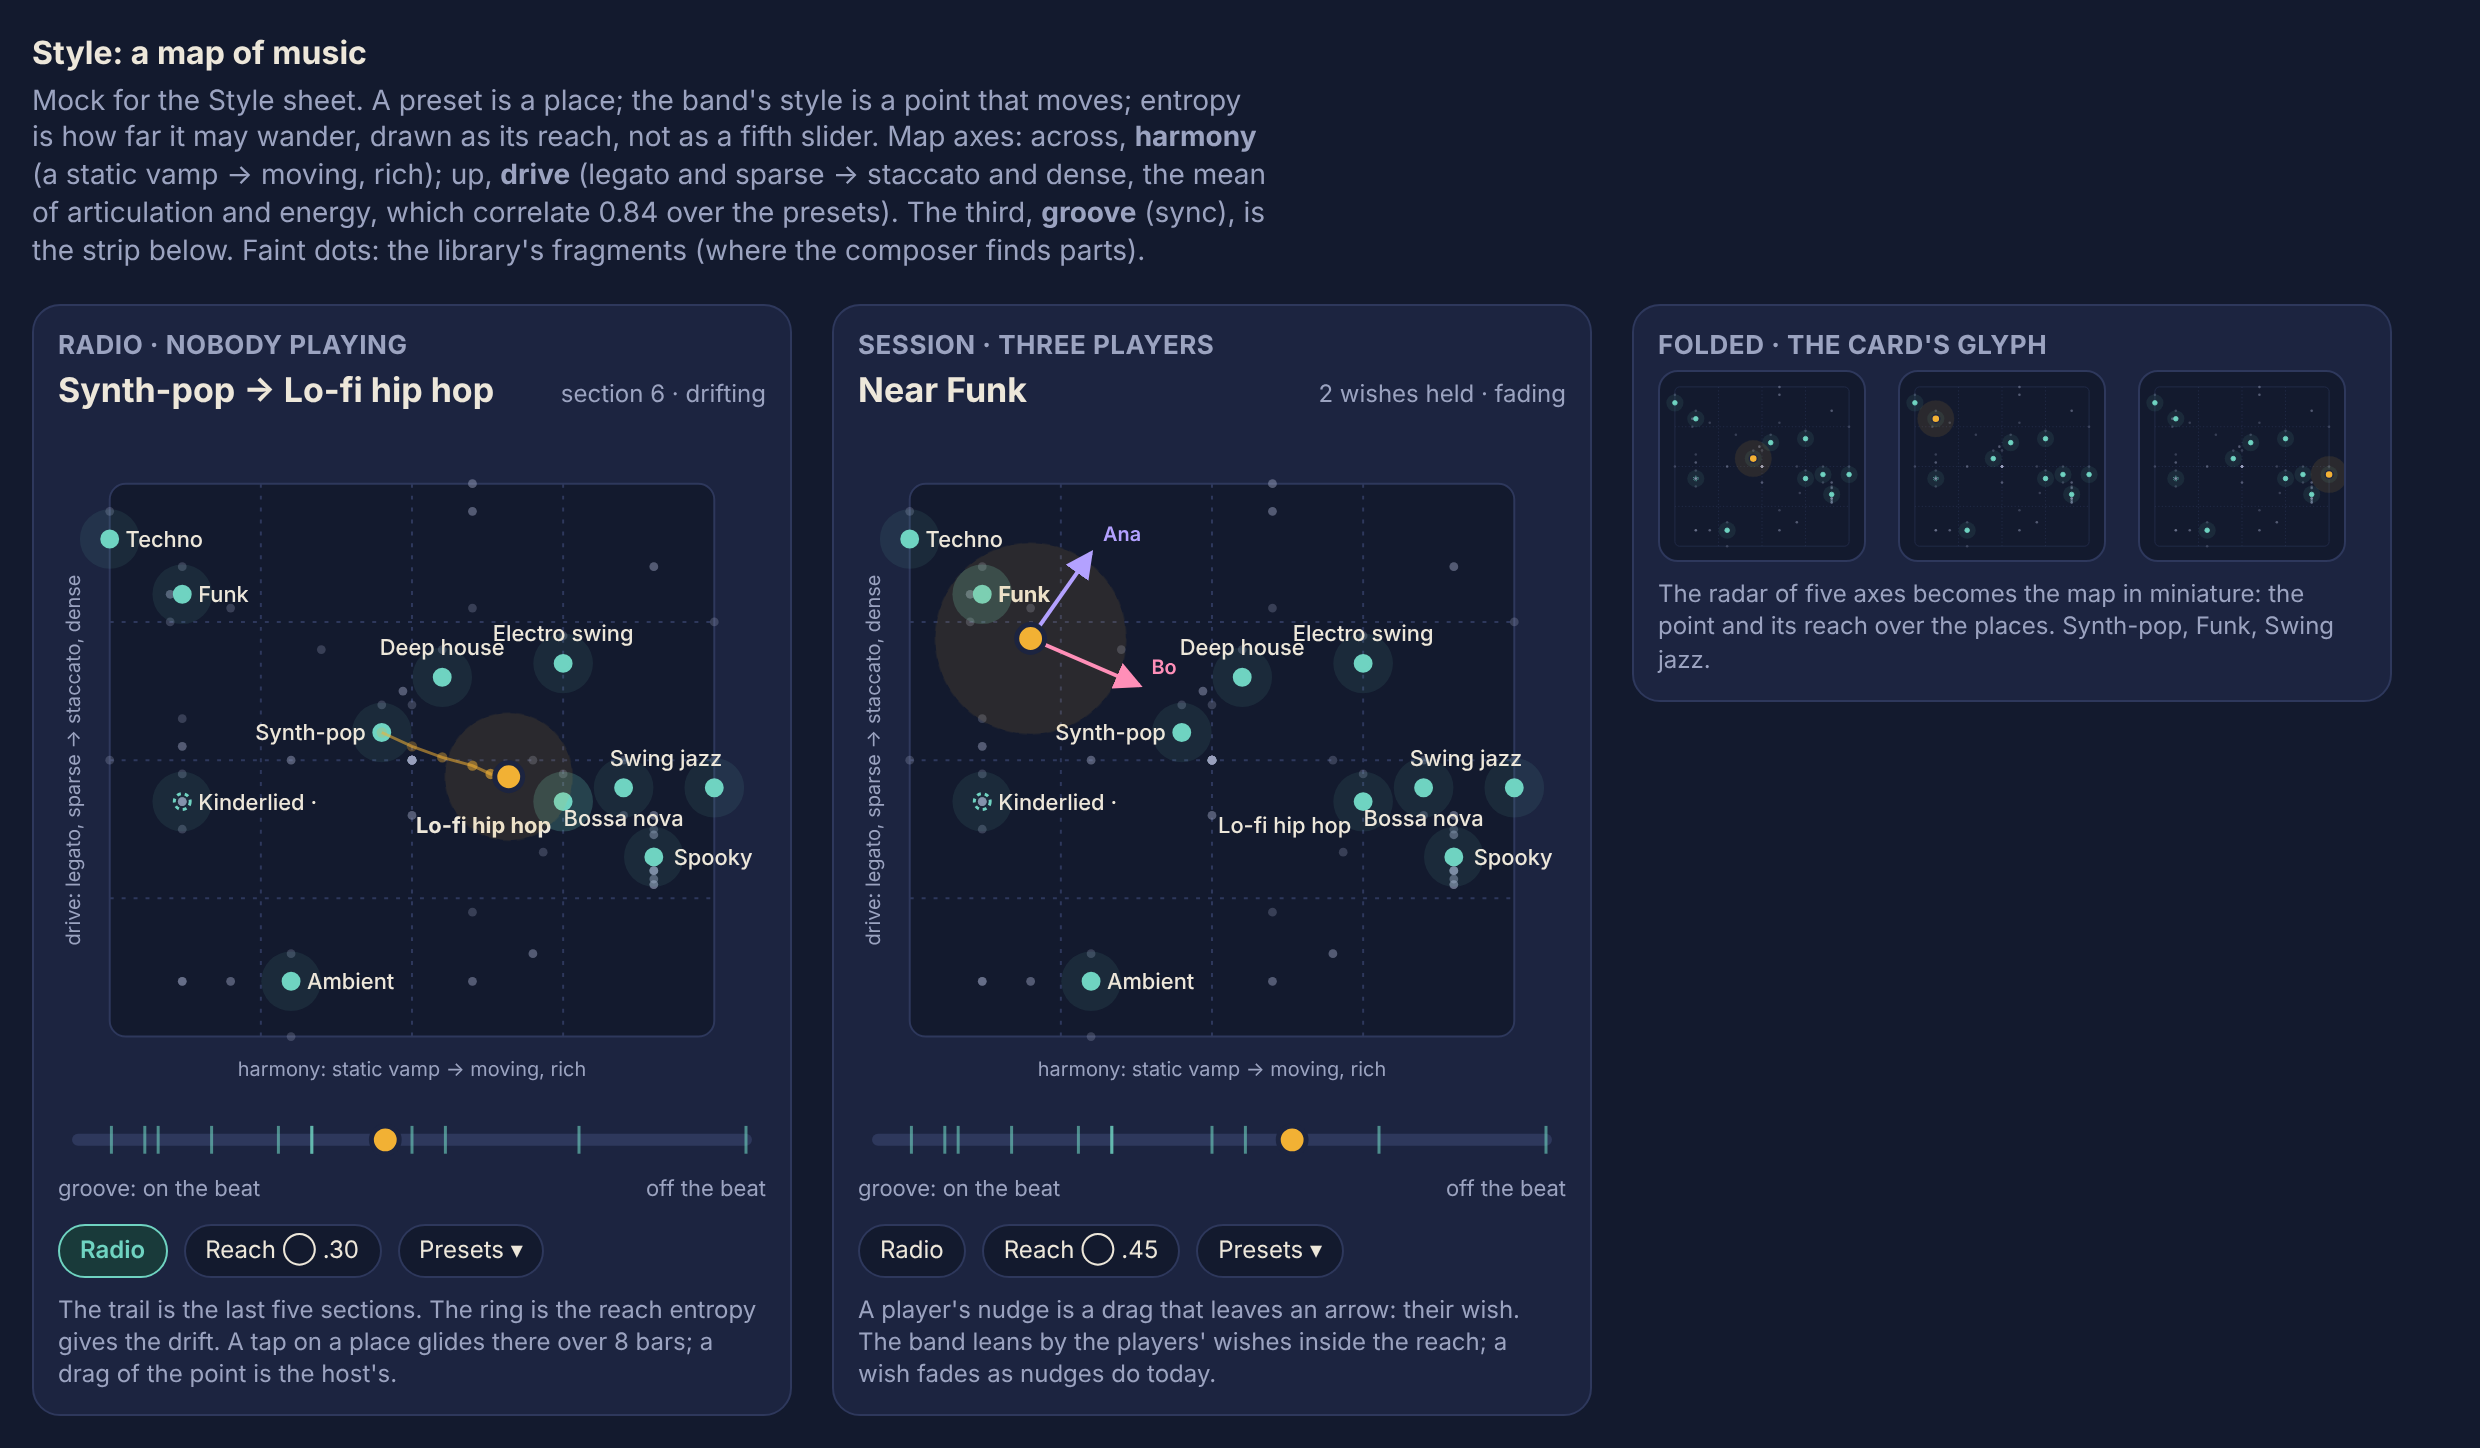
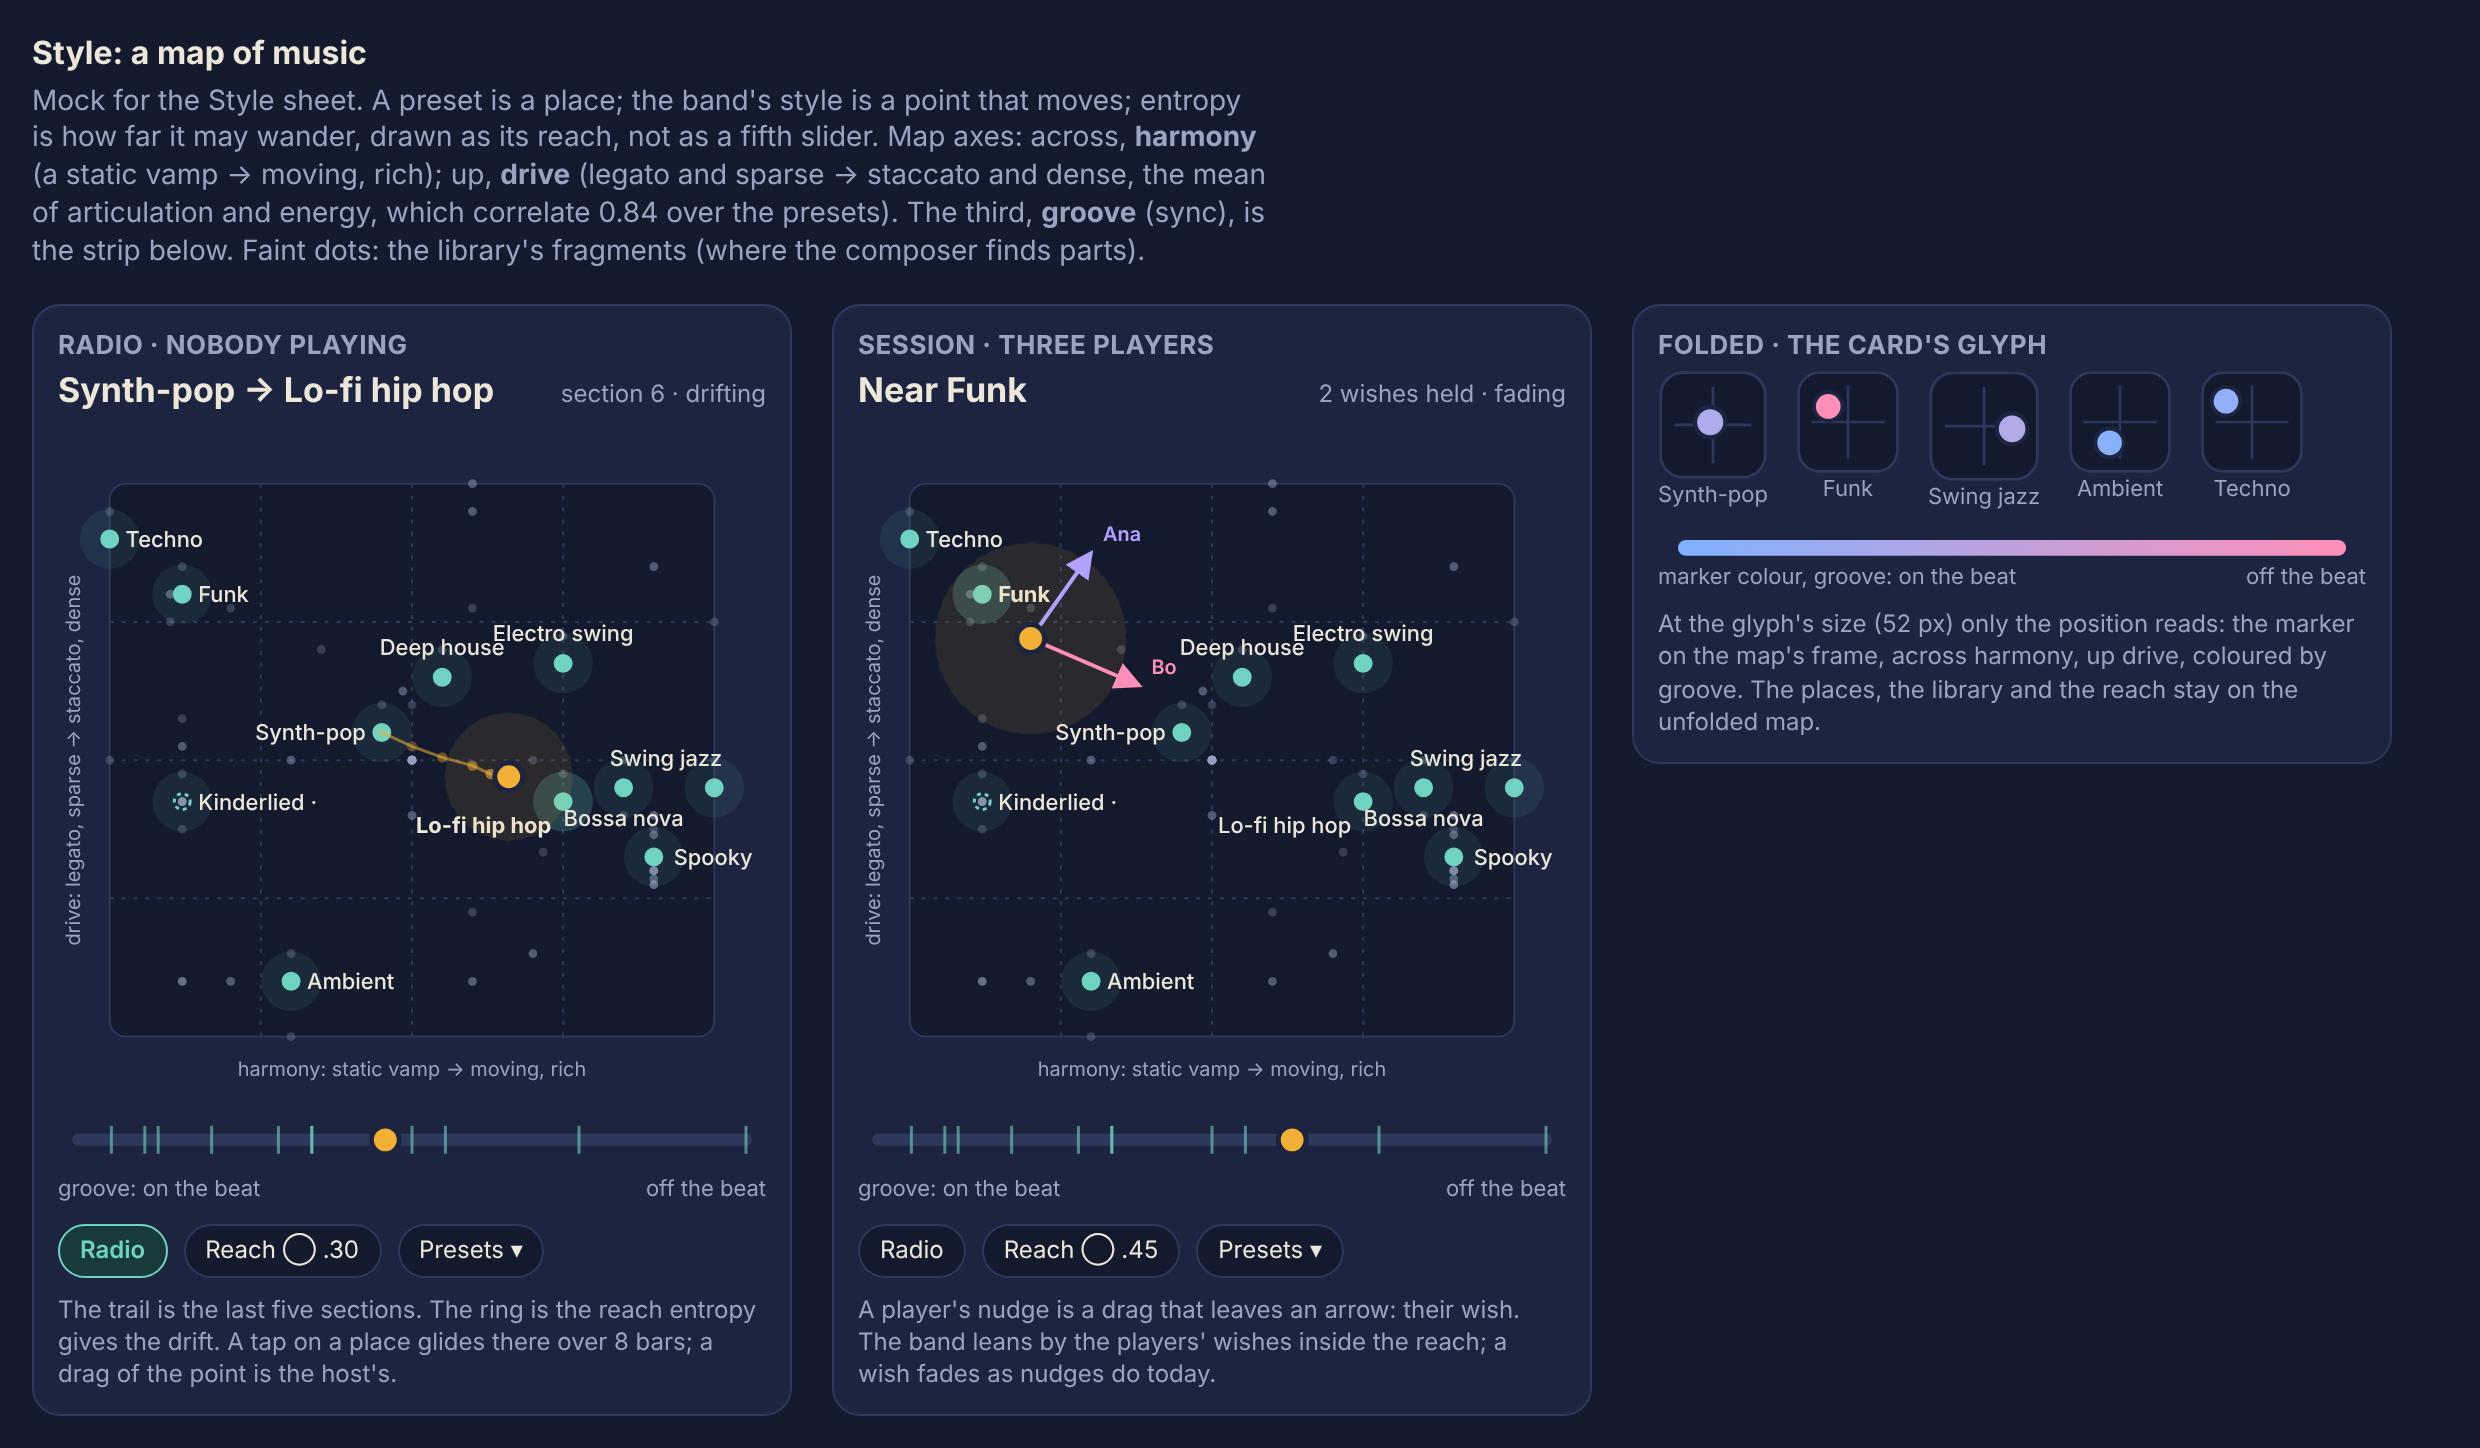
Simplify the style map's folded glyph to one marker coloured by groove (#598)
At 52 px the miniature map was unreadable: the glyph is now the map's frame,
its centre cross and the style's position, its colour the groove (sync).

Claude-Session: https://claude.ai/code/session_01Whua2LmLvs2CghTDaeQQWe

Changed region(s): [[0.652, 0.2486, 0.9625, 0.5283]]

diff --git a/docs/briefs/style-map/map.html b/docs/briefs/style-map/map.html
@@ -27,8 +27,7 @@ svg { display:block; width:100%; height:auto; }
 .pill { border:1px solid var(--line); border-radius:999px; padding:4px 10px; color:var(--ink); background:var(--bg); }
 .pill.on { background:var(--teal-bg); border-color:var(--teal); color:var(--teal); font-weight:600; }
 .note { font-size:12px; color:var(--muted); margin:8px 0 0; }
-.glyphs { display:flex; gap:16px; align-items:center; }
-.glyph { width:104px; height:auto; border:1px solid var(--line); border-radius:10px; background:var(--bg); }
+.glyphs { display:flex; gap:14px; align-items:flex-start; flex-wrap:wrap; }
 </style>
 <h1>Style: a map of music</h1>
 <p class="lede">Mock for the Style sheet. A preset is a place; the band's style is a point that moves; entropy is how far it may wander, drawn as its reach, not as a fifth slider. Map axes: across, <b>harmony</b> (a static vamp → moving, rich); up, <b>drive</b> (legato and sparse → staccato and dense, the mean of articulation and energy, which correlate 0.84 over the presets). The third, <b>groove</b> (sync), is the strip below. Faint dots: the library's fragments (where the composer finds parts).</p>
@@ -96,9 +95,22 @@ const FRAMES = {
       <p class="note">A player's nudge is a drag that leaves an arrow: their wish. The band leans by the players' wishes inside the reach; a wish fades as nudges do today.</p></div>`;
   },
   glyph: () => {
-    const small = (pt) => map({ point: pt, entropy: .3, labels: false }).replace('<svg ', '<svg class="glyph" ');
-    return `<div class="frame"><h2>Folded · the card's glyph</h2><div class="glyphs">${small([.3,.45,.55,.55])}${small([1,.12,.85,.75])}${small([.35,1,.3,.6])}</div>
-      <p class="note">The radar of five axes becomes the map in miniature: the point and its reach over the places. Synth-pop, Funk, Swing jazz.</p></div>`;
+    // The folded glyph: the map's frame, its centre cross, and one marker where the style is; its colour is the groove
+    // (sync), from on the beat (blue) to off the beat (pink). Nothing else: no places, no dots, no reach.
+    const syncColour = (v) => `color-mix(in oklab, var(--source-2) ${Math.round(v * 100)}%, var(--source-3))`;
+    const tiny = (s, h, a, e, size) => {
+      const x = 10 + h * 20, y = 30 - drive(a, e) * 20;
+      return `<svg width="${size}" height="${size}" viewBox="0 0 40 40" role="img" aria-label="style glyph">
+        <rect x="1" y="1" width="38" height="38" rx="8" fill="var(--bg)" stroke="var(--line)"/>
+        <line x1="20" y1="6" x2="20" y2="34" stroke="var(--line)"/><line x1="6" y1="20" x2="34" y2="20" stroke="var(--line)"/>
+        <circle cx="${x}" cy="${y}" r="5.5" fill="${syncColour(s)}" stroke="var(--surface)" stroke-width="1.5"/></svg>`;
+    };
+    const SHOWN = ['Synth-pop', 'Funk', 'Swing jazz', 'Ambient', 'Techno'];
+    const cells = SHOWN.map((n) => { const p = PRESETS.find((q) => q[0] === n);
+      return `<figure style="margin:0;text-align:center">${tiny(p[1], p[2], p[3], p[4], 52)}<figcaption style="font-size:11px;color:var(--muted)">${n}</figcaption></figure>`; }).join('');
+    const legend = `<div class="strip"><svg viewBox="0 0 356 16"><defs><linearGradient id="sg"><stop offset="0" stop-color="var(--source-3)"/><stop offset="1" stop-color="var(--source-2)"/></linearGradient></defs><rect x="10" y="4" width="336" height="8" rx="4" fill="url(#sg)"/></svg><div class="lab"><span>marker colour, groove: on the beat</span><span>off the beat</span></div></div>`;
+    return `<div class="frame"><h2>Folded · the card's glyph</h2><div class="glyphs">${cells}</div>${legend}
+      <p class="note">At the glyph's size (52 px) only the position reads: the marker on the map's frame, across harmony, up drive, coloured by groove. The places, the library and the reach stay on the unfolded map.</p></div>`;
   },
 };
 const only = new URLSearchParams(location.search).get('only');

diff --git a/docs/briefs/style-map.md b/docs/briefs/style-map.md
@@ -12,7 +12,7 @@ What it shows:
 - The band's style is a point, and entropy is its reach, a ring around it, not a fifth slider.
 - With the radio on, the trail of the last five sections and the place it drifts toward.
 - In a session, each player's wish as an arrow from the point.
-- Folded, the map in miniature is the card's glyph, in place of the radar.
+- Folded, the card's glyph is the map's frame and one marker where the style is, coloured by groove (blue on the beat, pink off it), in place of the radar: at 52 px only the position reads, so the places, the dots and the reach stay on the unfolded map.
 
 The preset points and the fragments' points are cells' at 1f7fa74, written into the file.
 The axes of the map are open: they follow yggi/cells#539's ruling on energy and articulation, and #598 compares three choices.
